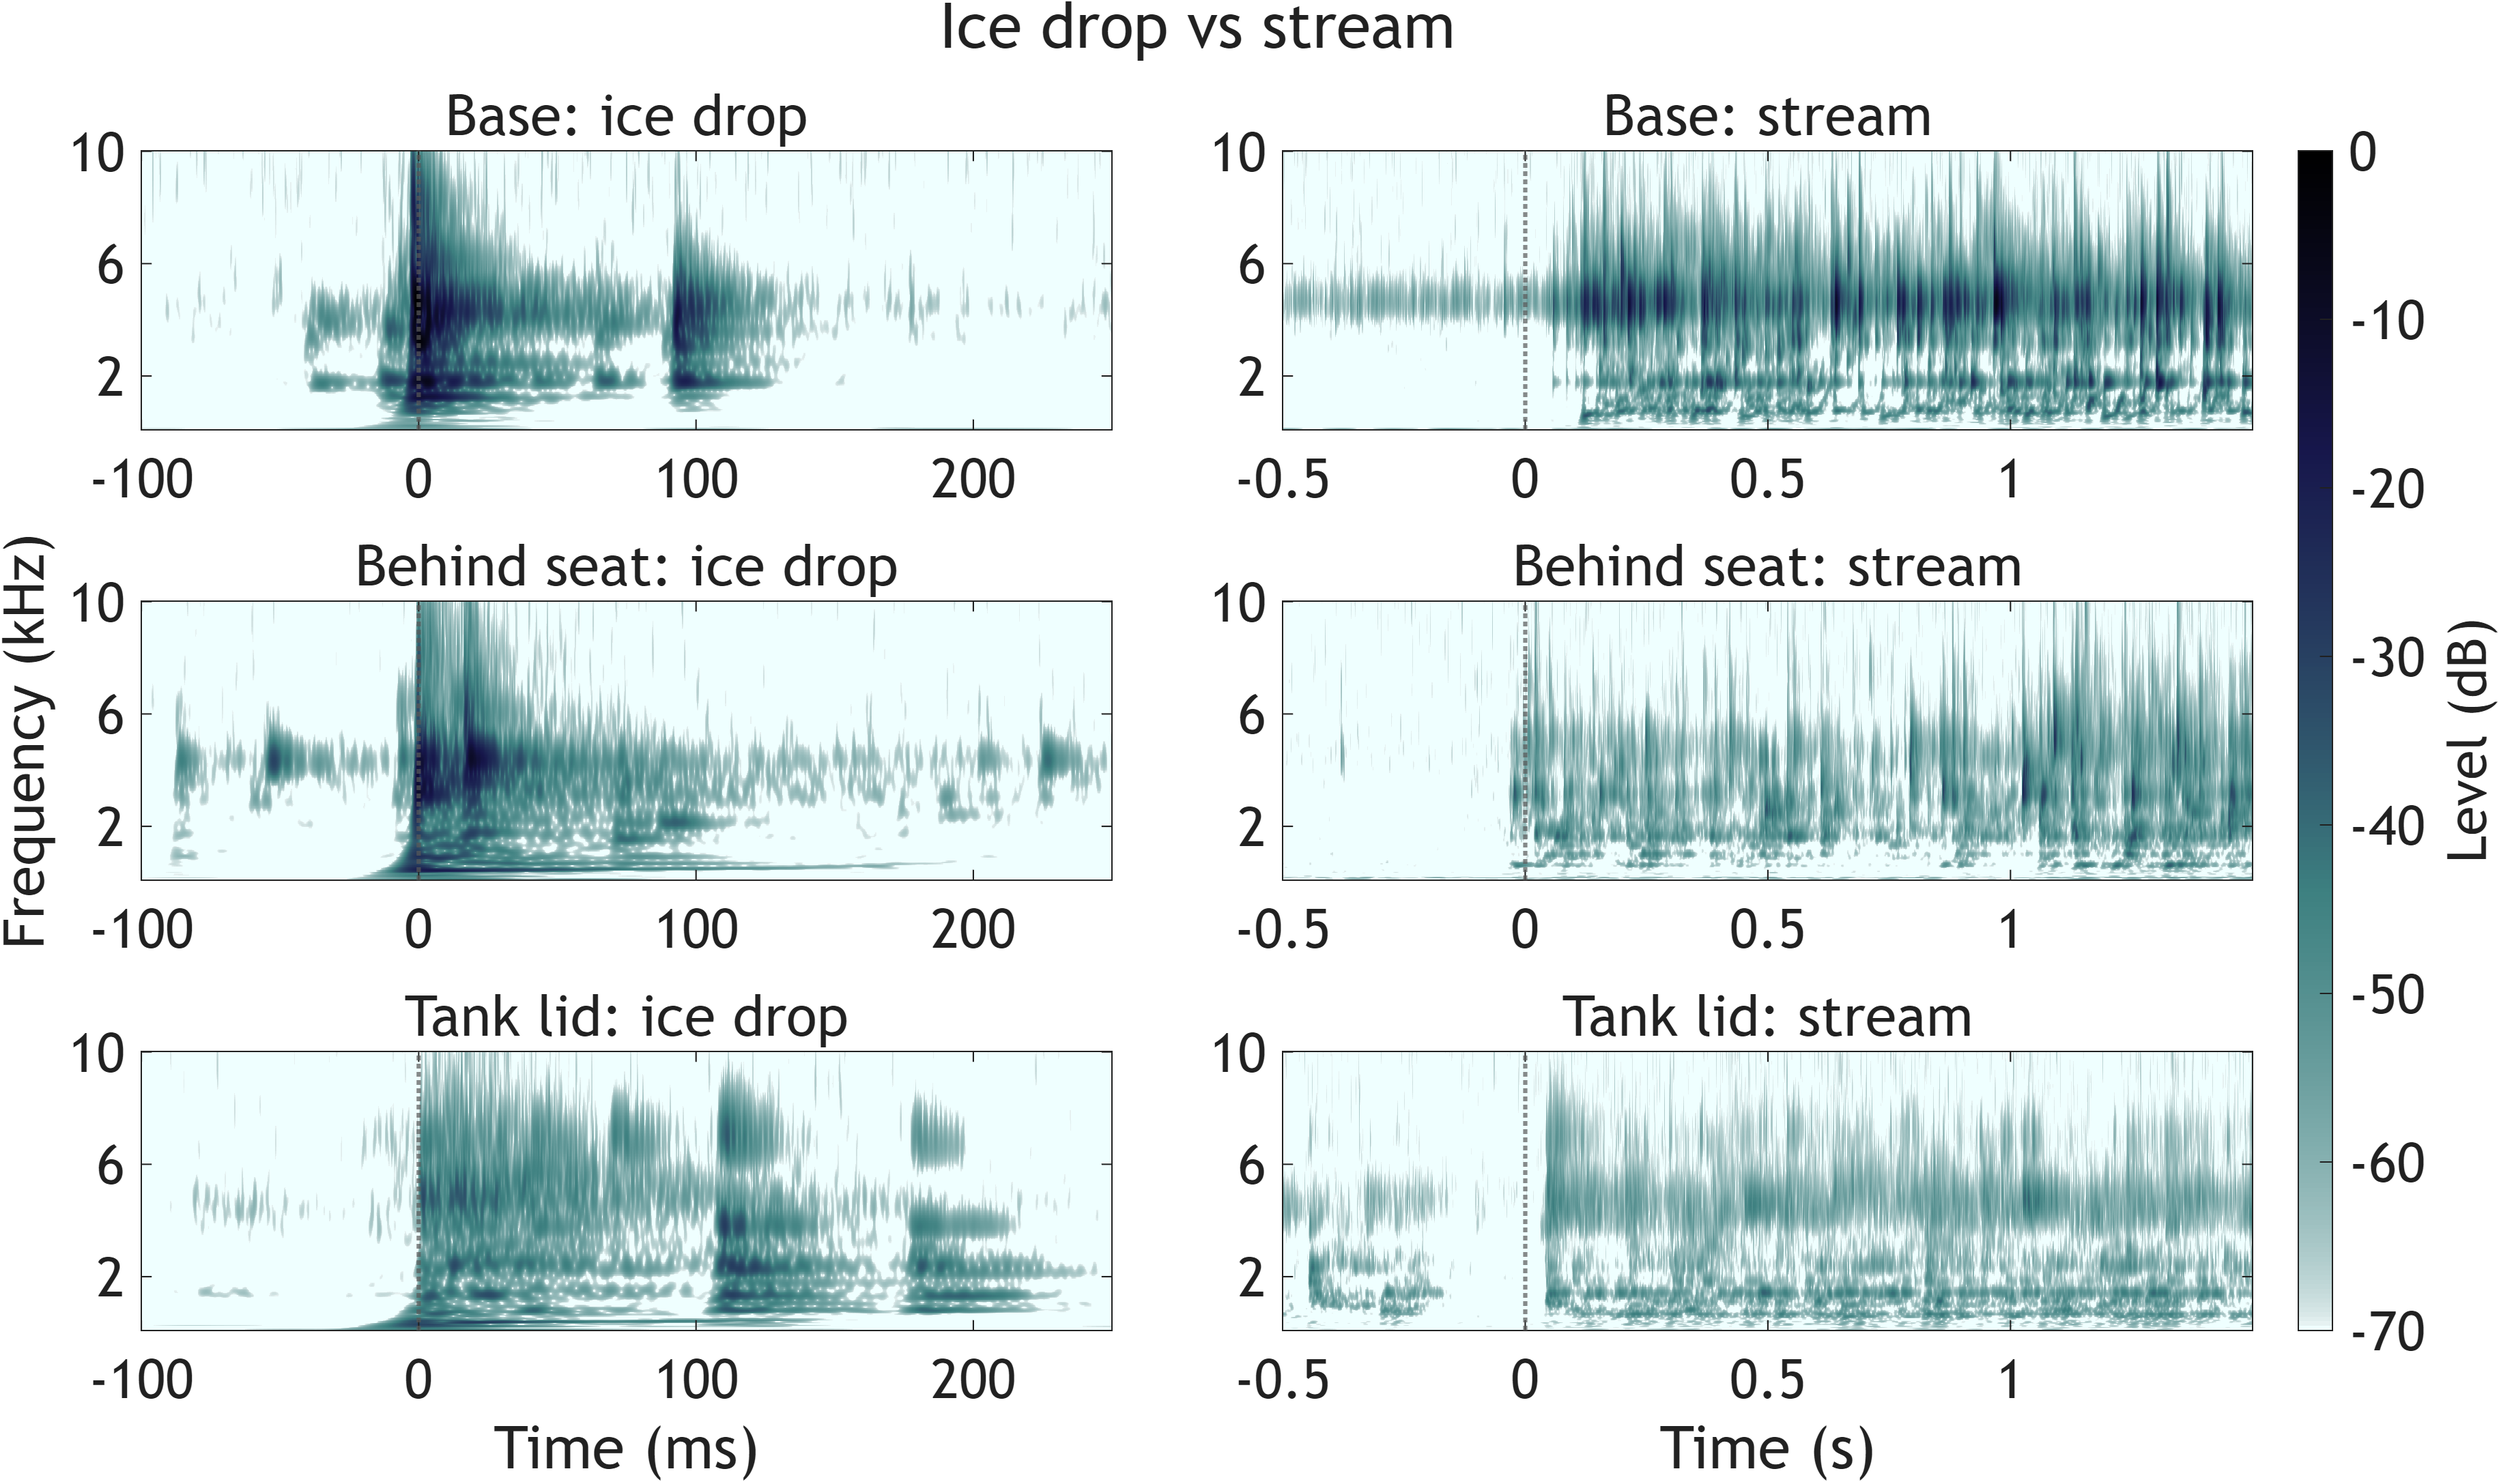
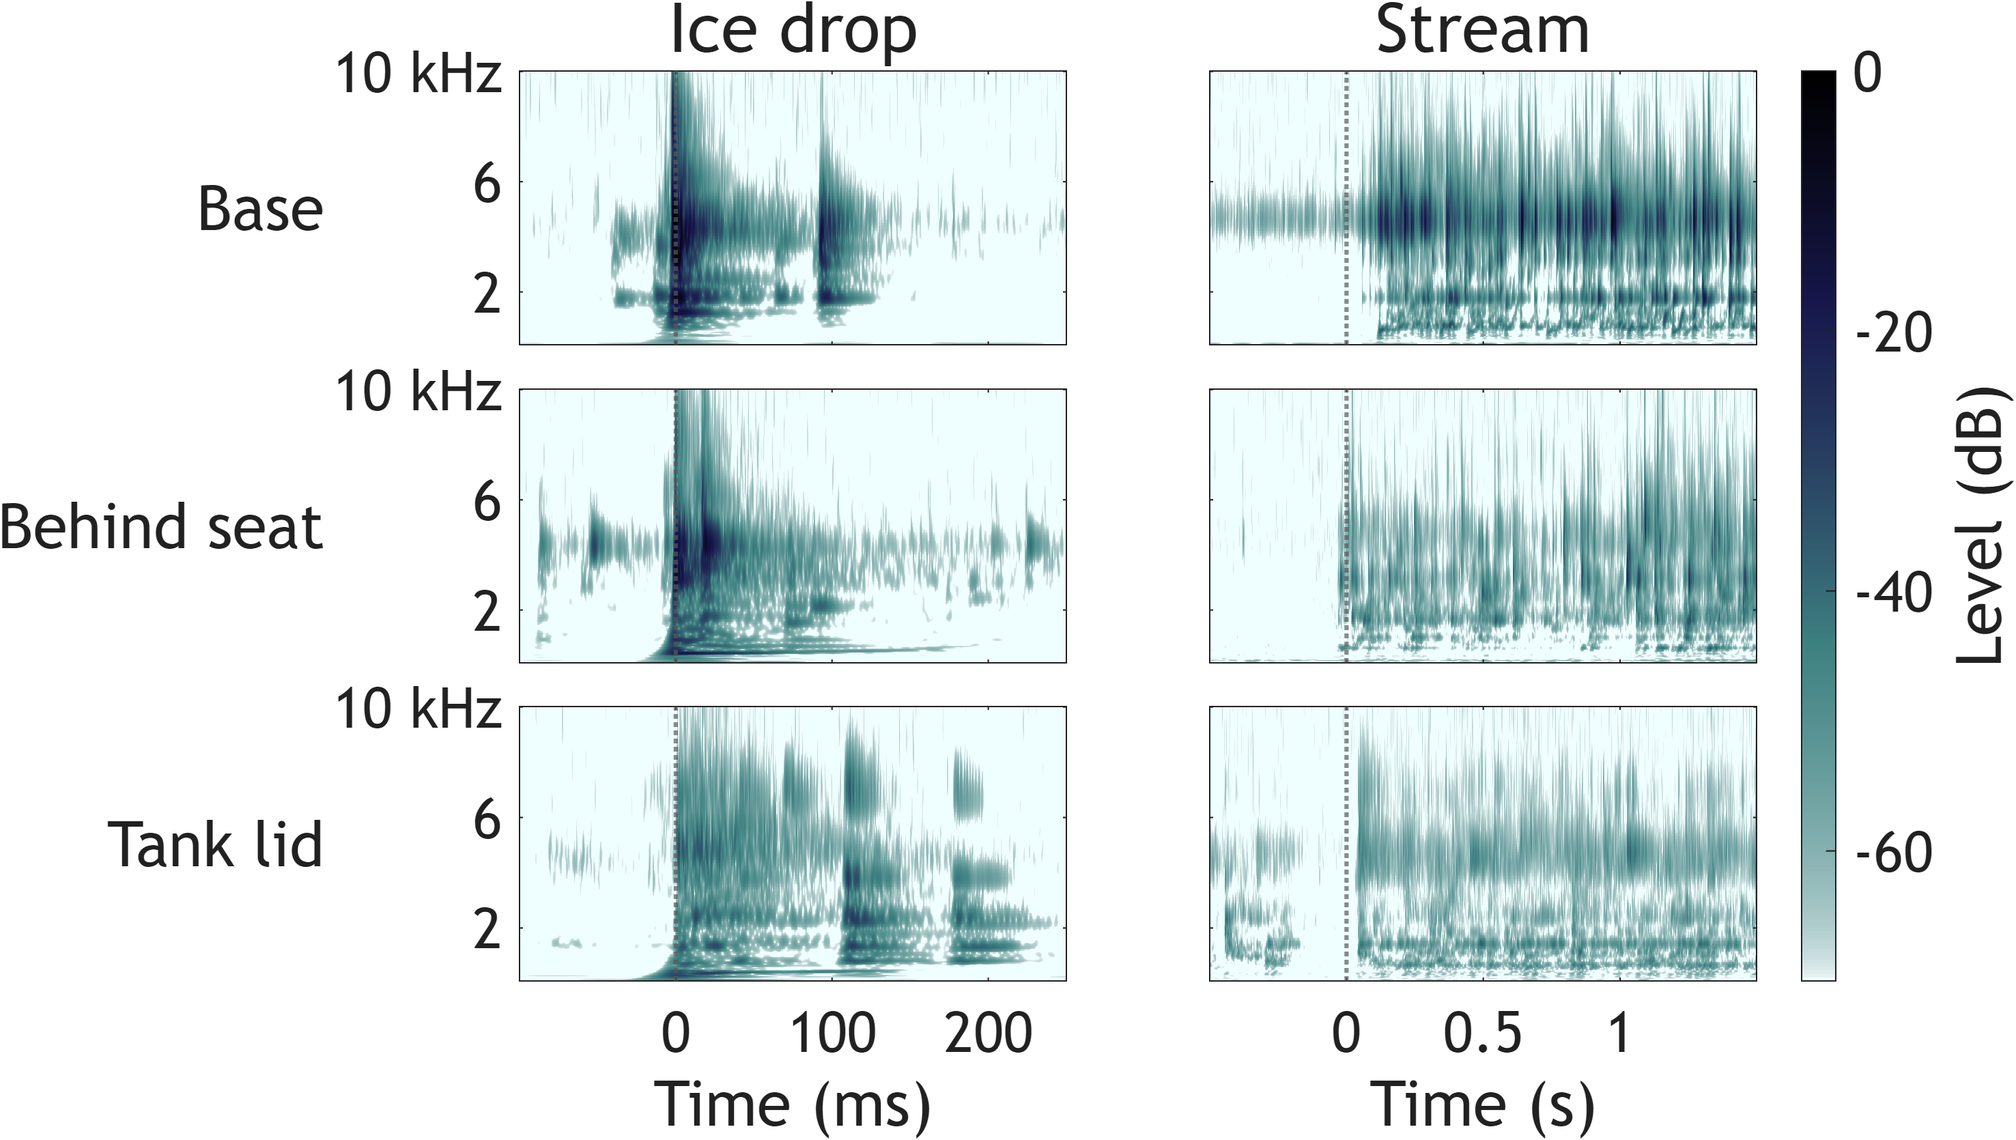
Redraw the toilet scalograms at the size they fill on a slide, with 20 to 24 pt text and only the kind of event over each column, the position beside each row, kHz on the top frequency tick and the time unit underneath

diff --git a/matlab/wavelet/wavelet_toilet.m b/matlab/wavelet/wavelet_toilet.m
@@ -97,12 +97,11 @@ for k = 1:numel(panels)
     rows{2 * p - 2 + col, 7} = round(fr(c));
 end
 
-% Slide figures: titles of a few words, text large enough to read on a slide (FontPt).
-draw(panels, [1 2], fr, ref, opts.RangeDb, [12.4 7.4], "Ice drop vs stream", ...
-    fullfile(saveDir, "toilet_wavelet.png"));
-draw(panels, 1, fr, max(peak(:, 1)), opts.RangeDb, [10.0 7.2], "Ice drop", ...
+% Slide figures, drawn at about the size they fill on a 13.33 x 7.5 in slide.
+draw(panels, [1 2], fr, ref, opts.RangeDb, [10.0 5.8], fullfile(saveDir, "toilet_wavelet.png"));
+draw(panels, 1, fr, max(peak(:, 1)), opts.RangeDb, [7.0 5.8], ...
     fullfile(saveDir, "toilet_ice_wavelet.png"));
-draw(panels, 2, fr, max(peak(:, 2)), opts.RangeDb, [10.0 7.2], "Stream trial", ...
+draw(panels, 2, fr, max(peak(:, 2)), opts.RangeDb, [7.0 5.8], ...
     fullfile(saveDir, "toilet_stream_wavelet.png"));
 
 R = cell2table(rows, "VariableNames", ["position" "kind" "trial" "t_s" "peak_db_detv1" ...
@@ -114,12 +113,14 @@ end
 end
 
 
-function draw(panels, cols, fr, ref, rangeDb, sizeIn, heading, path)
-%DRAW The panels in columns cols, rows the positions, on one scale relative to ref. Text is
-%   FontPt in the figure, so at least 14 pt once the figure is shrunk onto a slide.
-FontPt = 19;
+function draw(panels, cols, fr, ref, rangeDb, sizeIn, path)
+%DRAW The panels in columns cols, rows the positions, on one scale relative to ref. Drawn at
+%   about the size it fills on a slide, with as few words as possible: the kind of event over
+%   each column, the position beside each row, "kHz" on the top frequency tick, and the time
+%   unit under each column. Smallest text FontPt.
+FontPt = 20;
 font = {"FontName", "Trebuchet MS"};
-kinds = ["ice drop" "stream"];
+kinds = ["Ice drop" "Stream"];
 timeLabels = ["Time (ms)" "Time (s)"];
 fig = figure("Units", "inches", "Position", [0.5 0.5 sizeIn]);
 try
@@ -135,32 +136,38 @@ for p = 1:size(panels, 1)
         ax = nexttile(tl);
         imagesc(ax, tt, fr / 1000, 20 * log10(A.' / ref));
         set(ax, "YDir", "normal", "CLim", [-rangeDb 0], font{:}, "FontSize", FontPt, ...
-            "YTick", [2 6 10]);
+            "YTick", [2 6 10], "YTickLabel", ["2" "6" "10 kHz"], "TickLength", [0.005 0.005]);
         colormap(ax, 1 - pink(256));
         xline(ax, 0, ":", "Color", [0.35 0.35 0.35], "LineWidth", 1.5);
-        heading_p = s.title;
-        if numel(cols) > 1
-            heading_p = s.title + ": " + kinds(col);
+        if p == 1
+            title(ax, kinds(col), "FontSize", FontPt + 4, "FontWeight", "normal");
         end
-        title(ax, heading_p, "Interpreter", "none", "FontSize", FontPt + 1, ...
-            "FontWeight", "normal");
-        if col == 1
-            set(ax, "XTick", [-100 0 100 200]);
+        if col == cols(1)
+            ylabel(ax, s.title, "Rotation", 0, "HorizontalAlignment", "right", ...
+                "VerticalAlignment", "middle", "FontSize", FontPt + 2);
         else
-            set(ax, "XTick", [-0.5 0 0.5 1]);
+            set(ax, "YTickLabel", []);      % same frequencies as the column on the left
         end
+        if col == 1
+            set(ax, "XTick", [0 100 200]);
+        else
+            set(ax, "XTick", [0 0.5 1]);
+        end
+        set(ax, "XTickLabelRotation", 0);
         if p == size(panels, 1)
-            xlabel(ax, timeLabels(col));
+            xlabel(ax, timeLabels(col), "FontSize", FontPt + 2);
+        else
+            set(ax, "XTickLabel", []);
         end
     end
 end
-ylabel(tl, "Frequency (kHz)", font{:}, "FontSize", FontPt + 1);
 cb = colorbar(ax);
 cb.Layout.Tile = "east";
 cb.Label.String = "Level (dB)";
+cb.Ticks = -60:20:0;
 cb.FontName = "Trebuchet MS";
 cb.FontSize = FontPt;
-title(tl, heading, font{:}, "FontSize", FontPt + 3);
+cb.Label.FontSize = FontPt + 2;
 exportgraphics(fig, path, "Resolution", 300);
 fprintf("Saved %s\n", path);
 close(fig);
